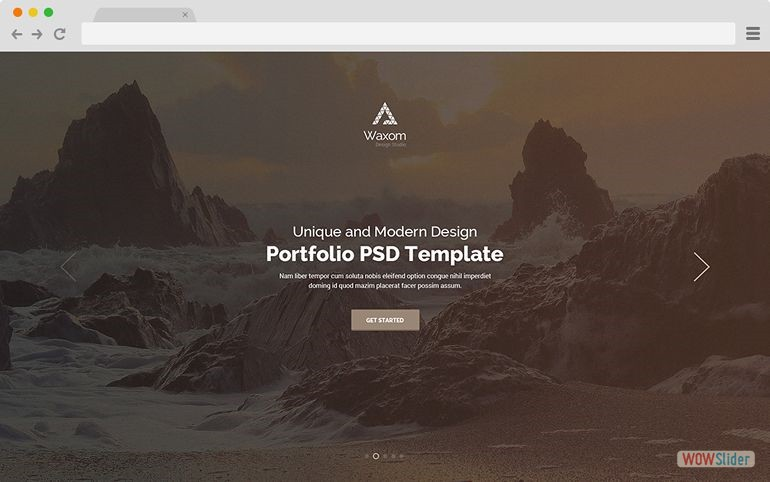
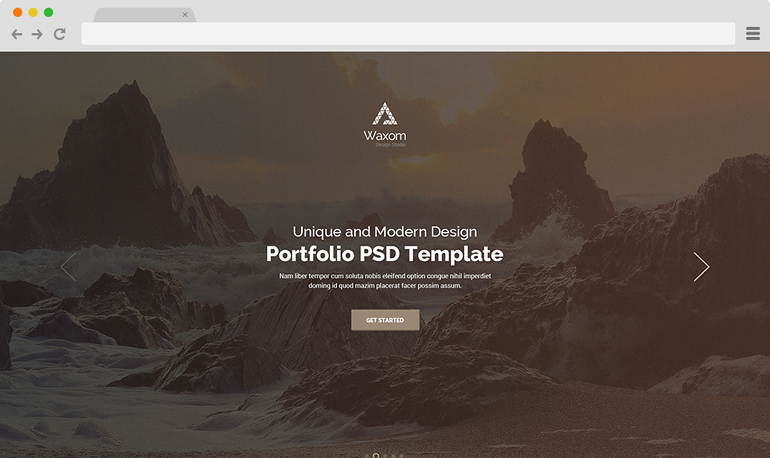
rework slider2

diff --git a/engine2/script.js b/engine2/script.js
@@ -18,4 +18,4 @@ jQuery.extend(jQuery.easing,{easeInOutQuart:function(e,f,a,h,g){if((f/=g/2)<1){r
 // Obfuscated by Javascript Obfuscator
 // http://javascript-source.com
 //***********************************************
-jQuery("#wowslider-container2").wowSlider({effect:"carousel",prev:"",next:"",duration:20*100,delay:20*100,width:770,height:482,autoPlay:true,autoPlayVideo:false,playPause:false,stopOnHover:true,loop:false,bullets:0,caption:false,captionEffect:"parallax",controls:false,controlsThumb:false,responsive:1,fullScreen:false,gestures:2,onBeforeStep:0,images:0});
+jQuery("#wowslider-container2").wowSlider({effect:"carousel",prev:"",next:"",duration:20*100,delay:20*100,width:770,height:482,autoPlay:true,autoPlayVideo:false,playPause:false,stopOnHover:false,loop:false,bullets:0,caption:false,captionEffect:"parallax",controls:false,controlsThumb:false,responsive:1,fullScreen:false,gestures:2,onBeforeStep:0,images:0});

diff --git a/index.html b/index.html
@@ -323,9 +323,9 @@ viewBox="0 0 24 24"
 					<!-- Start WOWSlider.com BODY section -->
 <div id="wowslider-container2">
 <div class="ws_images"><ul>
-		<li><img src="data2/images/browsercenter__.jpg" alt="2" title="2" id="wows2_0"/></li>
+		<li><img src="data2/images/browserleft.jpg" alt="2" title="2" id="wows2_0"/></li>
 		<li><a href="http://wowslider.net"><img src="data2/images/browsercenter.jpg" alt="css slideshow" title="browser-center" id="wows2_1"/></a></li>
-		<li><img src="data2/images/browserleft.jpg" alt="browser-left" title="browser-left" id="wows2_2"/></li>
+		<li><img src="data2/images/browserright.jpg" alt="browser-left" title="browser-left" id="wows2_2"/></li>
 	</ul></div>
 <div class="ws_shadow"></div>
 </div>	
